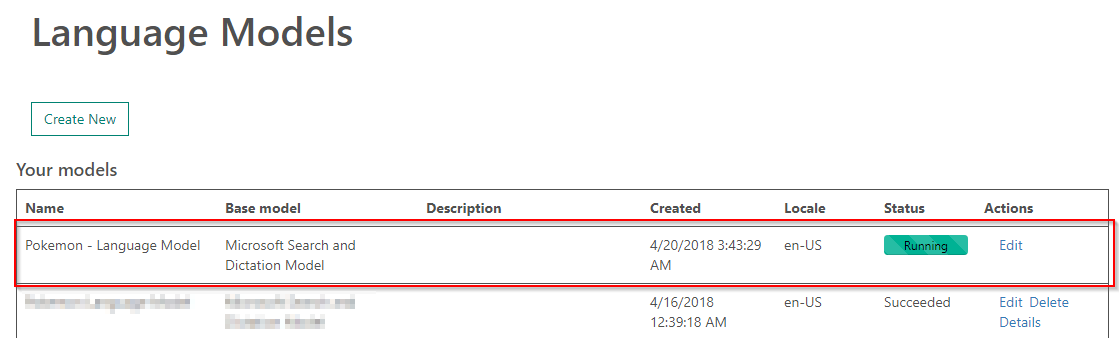
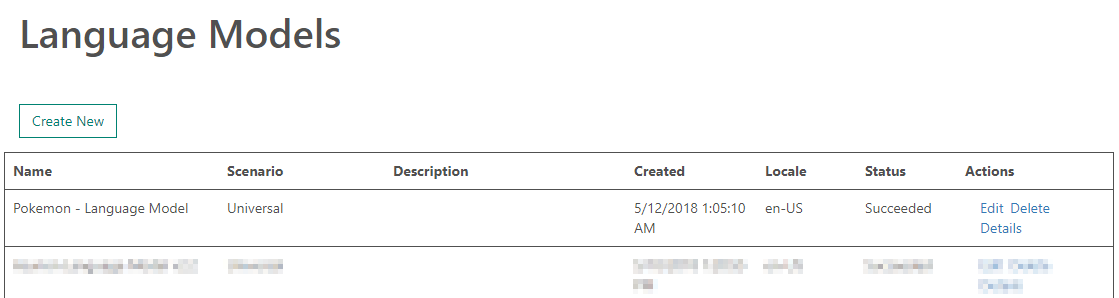
update ch 4

Changed region(s): [[0.0, 0.453, 1.0, 0.9966], [0.0, 0.0604, 0.3342, 0.2114], [0.0304, 0.2718, 0.1215, 0.4228]]

diff --git a/index.html b/index.html
@@ -761,8 +761,12 @@ get really mad pikachu
 <p>Training acoustic and language models is easy to do in the STT portal - point and click. But, before we do that, we&#39;ll take a pit stop and establish a baseline accuracy of the STT capabilities using Microsoft&#39;s base models.</p>
 <blockquote>
 <p><strong>Base Models - What Are They?</strong></p>
-<p>The STT comes with several pre-trained acoustic and language models. In fact, there are different models for conversations and search/diction. If you stop to think about it, this makes a lot of sense. We tend to speak differently when we converse with others, as compared to dictating text or speaking search terms for a search engine. See below for the base models Microsoft provides.</p>
-<p><img src="images/chapter4/model1.png" class="img-override" /></p>
+<p>The STT comes with pre-trained acoustic and language models, known as the Universal models. With these base universal models, the STT service can convert audio to text. But, if you have specific business terms, language patterns, regional dialects, etc., you&#39;ll build upon the base universal model to get higher accuracy.</p>
+<p>Microsoft updates the base universal model regularly, so your customized models can improve accuracy over time without adding to your training data. </p>
+</blockquote>
+<blockquote>
+<p><strong>Previous Base Models</strong></p>
+<p>In May 2018, Microsoft deprecated a variety of acoustic and language models. Previously the base models were customized for voice dictation and conversation, but now, there is a single base model capable of providing the same capabilities of the separate models, and with higher accuracy. You may see references to these models throughout the STT portal, but you can ignore them, as they are deprecated.   </p>
 </blockquote>
 <h3 id="testing-the-accuracy-of-the-base-models">Testing the Accuracy of the Base Models</h3>
 <p>To understand the effect our STT customization will have, it&#39;s important to establish a baseline accuracy for the STT service against our testing data set.</p>
@@ -779,7 +783,7 @@ get really mad pikachu
 <ul>
 <li>Locale: en-US</li>
 <li>Subscription: <em>the one you created earlier</em></li>
-<li>Base Model: Microsoft Search and Diction Model, then select the base acoustic and base language models below</li>
+<li>Scenario: Universal, then select the Universal acoustic and Universal language models below</li>
 <li>Acoustic Data: Pokemon - Acoustic Data - Testing</li>
 </ul>
 <p><img src="images/chapter4/test2.png" class="img-override" /></p>
@@ -830,7 +834,7 @@ get really mad pikachu
 <li>Locale: en-US</li>
 <li>Name: Pokemon - Acoustic Model</li>
 <li>Description: <em>blank</em></li>
-<li>Base Acoustic Model: Microsoft Search and Diction Model</li>
+<li>Scenario: Universal</li>
 <li>Acoustic Data: Pokemon - Acoustic Data - Training</li>
 <li>Subscription: <em>your subscription</em></li>
 <li>Accuracy Testing: <em>unchecked</em>, b/c we&#39;ve already run a test</li>
@@ -865,7 +869,7 @@ get really mad pikachu
 <li>Locale: en-US</li>
 <li>Name: Pokemon - Language Model</li>
 <li>Description: <em>blank</em></li>
-<li>Base Language Model: Microsoft Search and Diction Model</li>
+<li>Scenario: Universal</li>
 <li>Language Data: Pokemon - Language Data - Training</li>
 <li>Pronunciation Data: Pokemon - Pronunciation Data - Training</li>
 <li>Subscription: <em>your subscription</em></li>
@@ -898,7 +902,7 @@ get really mad pikachu
 <ul>
 <li>Locale: en-US</li>
 <li>Subscription: <em>the one you created earlier</em></li>
-<li>Base Model: Microsoft Search and Diction Model, then select the Pokemon models below</li>
+<li>Scenario: Universal, then select the Pokemon models below</li>
 <li>Acoustic Data: Pokemon - Acoustic Data - Testing</li>
 </ul>
 <p><img src="images/chapter4/test6.png" class="img-override" /></p>
@@ -912,10 +916,10 @@ get really mad pikachu
 <p>This one was for everyone. And it&#39;s amazing.</p>
 <p>So, let&#39;s check back in on the accuracy test.</p>
 <p><img src="images/chapter4/test8.png" class="img-override" /></p>
-<p>Sweet! Look at that - 6% WER. I&#39;m ok with that (for now). Feel free to explore the details of the accuracy test to learn more.</p>
+<p>Sweet! Look at that - 0% WER. I&#39;m ok with that!. Feel free to explore the details of the accuracy test to learn more.</p>
 <blockquote>
 <p><strong>Challenge #5</strong></p>
-<p>Try to get the accuracy test WER down to 0%. Enough said.</p>
+<p>Add several utterances to the testing data set that increase the word error rate (WER), then train the acoustic and language models to reduce it.</p>
 </blockquote>
 <p>This concludes the exercise. </p>
 <div class="exercise-end"></div> 

diff --git a/src/chapters/chapter4.md b/src/chapters/chapter4.md
@@ -13,9 +13,13 @@ Training acoustic and language models is easy to do in the STT portal - point an
 
 > **Base Models - What Are They?**
 >
-> The STT comes with several pre-trained acoustic and language models. In fact, there are different models for conversations and search/diction. If you stop to think about it, this makes a lot of sense. We tend to speak differently when we converse with others, as compared to dictating text or speaking search terms for a search engine. See below for the base models Microsoft provides.
+> The STT comes with pre-trained acoustic and language models, known as the Universal models. With these base universal models, the STT service can convert audio to text. But, if you have specific business terms, language patterns, regional dialects, etc., you'll build upon the base universal model to get higher accuracy.
 >
-> <img src="images/chapter4/model1.png" class="img-override" />
+> Microsoft updates the base universal model regularly, so your customized models can improve accuracy over time without adding to your training data. 
+
+> **Previous Base Models**
+>
+> In May 2018, Microsoft deprecated a variety of acoustic and language models. Previously the base models were customized for voice dictation and conversation, but now, there is a single base model capable of providing the same capabilities of the separate models, and with higher accuracy. You may see references to these models throughout the STT portal, but you can ignore them, as they are deprecated.   
 
 ### Testing the Accuracy of the Base Models
 
@@ -38,7 +42,7 @@ Click the *Create New* button to begin a test against an acoustic and language m
 Complete the following fields:
 - Locale: en-US
 - Subscription: *the one you created earlier*
-- Base Model: Microsoft Search and Diction Model, then select the base acoustic and base language models below
+- Scenario: Universal, then select the Universal acoustic and Universal language models below
 - Acoustic Data: Pokemon - Acoustic Data - Testing
 
 <img src="images/chapter4/test2.png" class="img-override" />
@@ -111,7 +115,7 @@ Click the *Create New* button and complete the following fields:
 - Locale: en-US
 - Name: Pokemon - Acoustic Model
 - Description: *blank*
-- Base Acoustic Model: Microsoft Search and Diction Model
+- Scenario: Universal
 - Acoustic Data: Pokemon - Acoustic Data - Training
 - Subscription: *your subscription*
 - Accuracy Testing: *unchecked*, b/c we've already run a test
@@ -162,7 +166,7 @@ Click the *Create New* button and complete the following fields:
 - Locale: en-US
 - Name: Pokemon - Language Model
 - Description: *blank*
-- Base Language Model: Microsoft Search and Diction Model
+- Scenario: Universal
 - Language Data: Pokemon - Language Data - Training
 - Pronunciation Data: Pokemon - Pronunciation Data - Training
 - Subscription: *your subscription*
@@ -209,7 +213,7 @@ Click the *Create New* button to begin a test against an acoustic and language m
 Complete the following fields:
 - Locale: en-US
 - Subscription: *the one you created earlier*
-- Base Model: Microsoft Search and Diction Model, then select the Pokemon models below
+- Scenario: Universal, then select the Pokemon models below
 - Acoustic Data: Pokemon - Acoustic Data - Testing
 
 <img src="images/chapter4/test6.png" class="img-override" />
@@ -232,11 +236,11 @@ So, let's check back in on the accuracy test.
 
 <img src="images/chapter4/test8.png" class="img-override" />
 
-Sweet! Look at that - 6% WER. I'm ok with that (for now). Feel free to explore the details of the accuracy test to learn more.
+Sweet! Look at that - 0% WER. I'm ok with that!. Feel free to explore the details of the accuracy test to learn more.
 
 > **Challenge #5**
 >
-> Try to get the accuracy test WER down to 0%. Enough said.
+> Add several utterances to the testing data set that increase the word error rate (WER), then train the acoustic and language models to reduce it.
 
 This concludes the exercise. 
 
